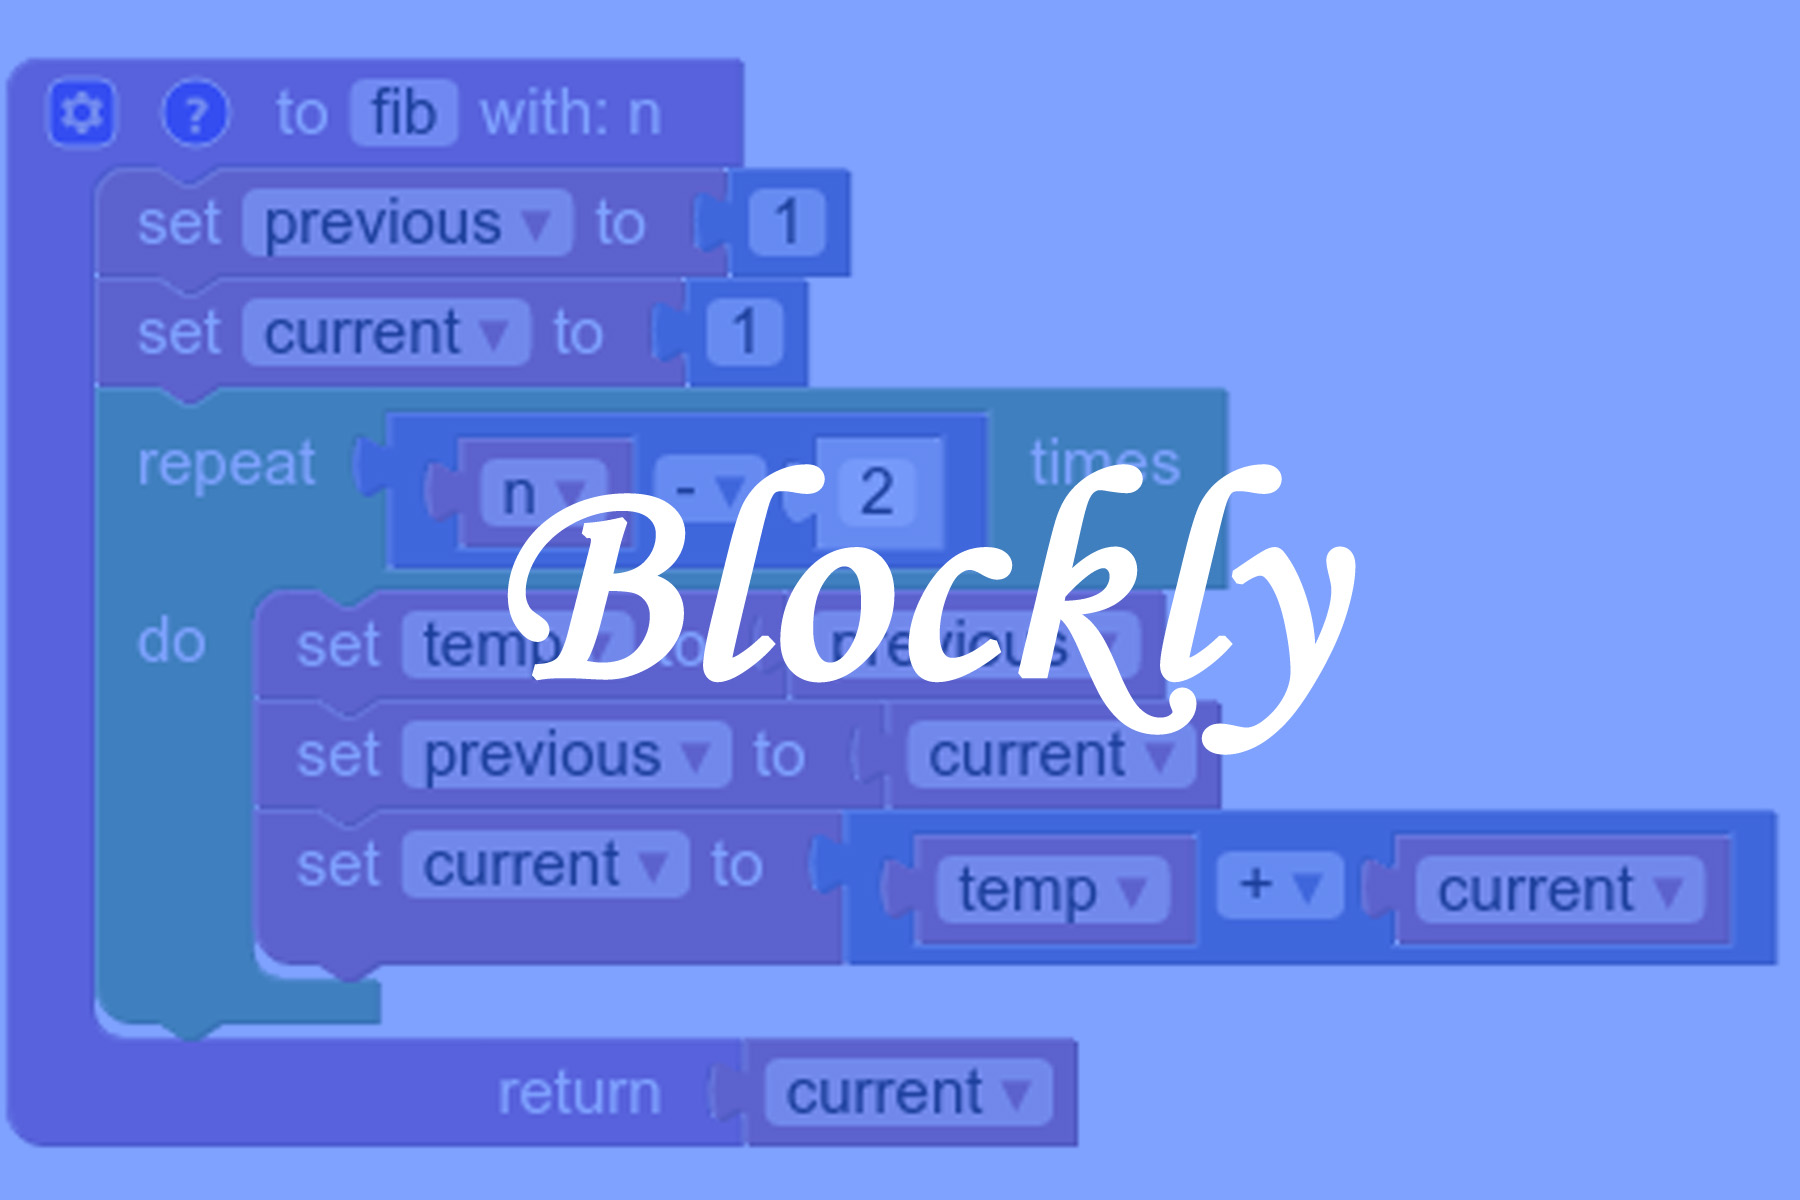
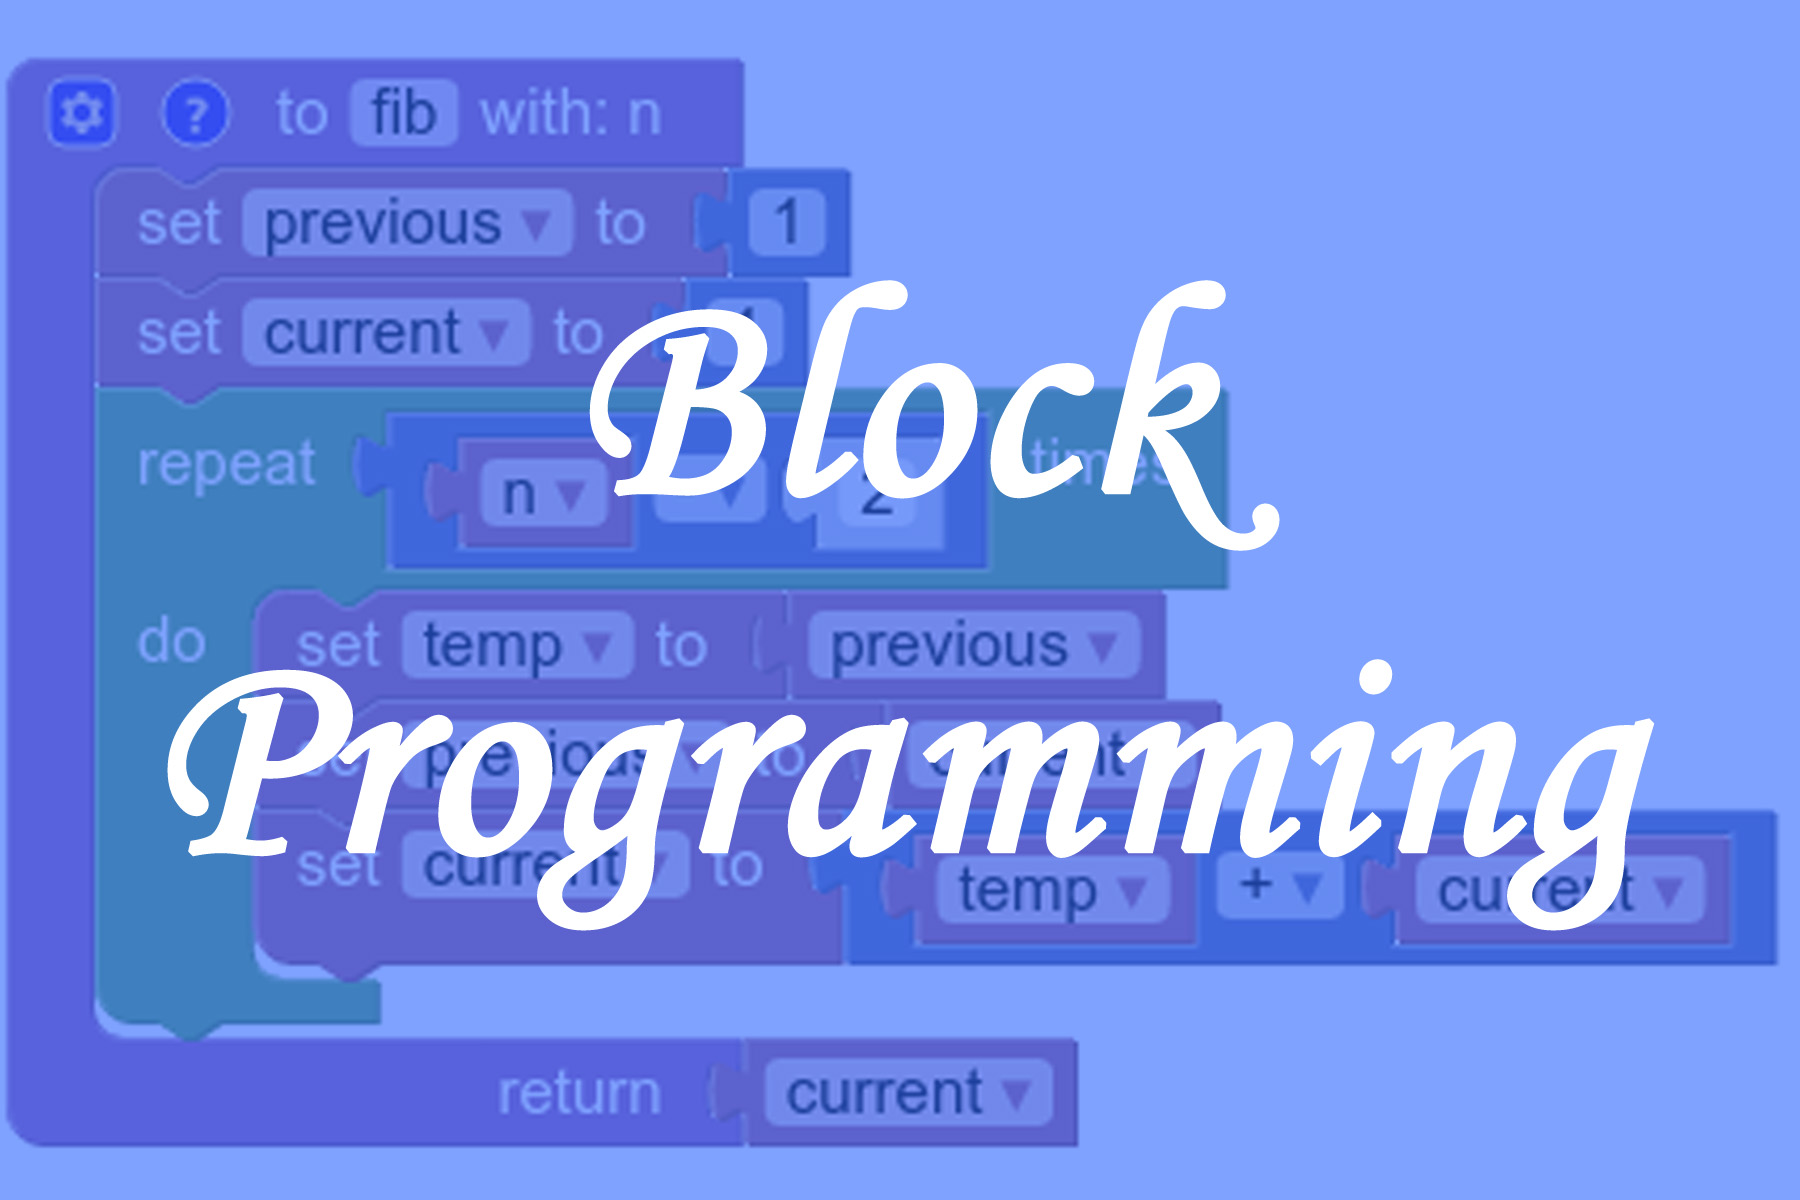
public images

Changed region(s): [[0.0933, 0.2158, 0.9333, 0.8017]]

diff --git a/_includes/header.html b/_includes/header.html
@@ -17,18 +17,15 @@
       </div>
         
       <div class="gallery dropdown">
-          <!--a href="/stem/technology"-->
           <img src="/images/stem/Tech.png" alt="T" width="40" height="40">
           <div class="dropdown-content">
             <a href="/stem/technology">Introduction</a>
             <a href="/technology/logic">Logic Puzzles</a>
             <a href="/technology/blockprogram">Block Programming</a>
           </div>
-          <!--/a-->
       </div>
       
       <div class="gallery dropdown">
-          <!--a href="/stem/engineering"-->
             <img src="/images/stem/Engg.png" alt="E" width="40" height="40">
             <div class="dropdown-content">
               <a href="/stem/engineering">Introduction</a>
@@ -36,7 +33,6 @@
               <a href="/engineering/robotics">Robotics</a>
               <a href="/engineering/robocompetitions">Robotics Competitions</a>
             </div>
-          <!--/a-->
       </div>
       
       <div class="gallery">

diff --git a/stem/defaultstyle.css b/stem/defaultstyle.css
@@ -53,7 +53,7 @@ header {
   display: none;
   position: absolute;
   background-color: #dbe2f8; /* #f1f1f1 */;
-  margin-top: 7px;
+  margin-top: 10px;
   font-size:12px;
   min-width: 140px;
   border-radius: 5px;

diff --git a/README.md b/README.md
@@ -2,48 +2,37 @@
 URL: https://stemscholars.github.io/
 
 # Items
-Launch date: Sept 27
-## By Wed Sept 23
-* **Intro Video**
+## Intro Video
   * Rayna: Script. Rayna and Rachel: Film
   * Motivation: "Define what STEM means for you". "Why do I do STEM" and "What will you learn from this"
   * "Why do I do STEM" -- What interests you to "stay engaged" ? What's your incentive ?
-  * **Need biodata and pic from Ms. Gina**
 * Arduino (Singhals)
-## By Sunday Sept 27
-* Video Tutorial for K-3:
+## Video Tutorial for K-3
   * Rayna: Script
-  * Material: Science(5 activities: Prabhdeep), Tech(coding: Rachel), Engg(robotics: Rayna), Math(logic: Leo and Navika)
-* Robotics page filled
-## By Wed Sept 30
-* Film the videos and release
+  * Material: Science(5 activities: Prabhdeep), Tech(coding: Rachel), Engg(robotics: Rayna)
 ## Later
 * Other videos
   * What strategies work for you? What doesn't work? Talk about perseverance and sustained practice.
-  * Why competitions ? (They give a framework to learn, a goal to work towards)
 * **How do we do diversity and inclusion ? How do we attract girls and people from all ethnicities and socio-economic backgrounds?**
   * Maybe make 1 person in-charge of it ? Add pictures, creative stuff, memes.
   * Socio-economic -- persuade and demystify. Videos ? Outreach ?
 * Divide up the resources into "audience" of potential Students -- Beginning, Emerging and Taking Off!
-* Let's not forget about possibility of embedding a google form for whoever to enter their name - and email. Perhaps, can be optional to include school and grade.
+* Add a google form for whoever to enter their name - and email. Perhaps, can be optional to include school and grade.
 ## Page Ideas
-* Intro: Motivation. Later: Pics on margin for logic puzzles, robots, chess
-* Science: Science Fair (Arshia), Science Bowl (Yash)
+* Science: 
+  * Science Fair (Arshia): https://acsef.zfairs.com/?f=25e2f89f-2696-4168-9805-abbfe4675d33 
+  * Science Bowl (Yash)
 * Technology: Logic page, Coding Tutorials (code.org), Coding competitions, Web page design, making apps, animation
 * Engineering: 
   * Circuits, Arduino
   * Robotics : Competitions, Tutorials
 * Arts: Logan has a lot of ARTs - both visual and performing arts; including forensics!
-* Math: Logic page, Competitions, Other (Neil)
+* Math: Logic page, Competitions, Other (Neil), Intro to finance: 
+  * Money Smart curriculum for kids: https://www.fdic.gov/consumers/consumer/moneysmart/young.html
+  * bayfi2020@gmail.com https://bayfi2020.wixsite.com/home (10 weeks, 6-9 grades)
 * Logic: Sudoku, Chess
 * Major/Careers: How to pick
 * About
 
 Maybe check the video model at: https://www.nextvista.org/
 
-# Ms. Gina's District Wide Outreach
-Engagement, Enrichment and Leadership for ages 0 to "Infinity and Beyond!. Connected to:
-* NHUSD Personal Learning Academy
-* Union City Family Center: 
-* Family Engagement, Enrichment and Leadership Skills (FEELS)
-* Coaching, Advising, Regenerative Encouragement Systems (CARES)

diff --git a/stem/publicimages.md b/stem/publicimages.md
@@ -1,0 +1,16 @@
+# Public Domain Images Used Here without Arribution
+
+## Rules
+* CreativeCommon https://creativecommons.org/faq/ : Every Creative Commons license requires that you provide attribution to the original creator as well as link to the original work. Example: https://creativecommons.org/use-remix/attribution/
+* How to set in your photo: https://wiki.creativecommons.org/wiki/HOWTO_Publish#Adding_a_license_to_your_photo_pages 
+
+## Public Domain Images on our site:
+* NavBar Home: https://www.needpix.com/photo/download/522328/home-start-top-icon-free-vector-graphics-free-pictures-free-photos-free-images-royalty-free 
+* NavBar: About Us: https://pixy.org/4176572/ Colors: (RGB) = (0, 150, 175) = 0096af
+* Under Construction: https://www.needpix.com/photo/538093/maintenance-under-construction-web-site-web-page-repairs-internet-building-logo-icon 
+* Building Sets: https://pixabay.com/illustrations/lego-lego-background-bricks-truck-3625194/  https://pixabay.com/service/license/ -- free for commercial and noncommercial use, Attribution is not required. 
+* Electronics: https://pixy.org/102060/ https://creativecommons.org/choose/zero/ 
+* Robot: https://pixabay.com/photos/r2d2-robot-starwars-film-android-5142912/ 
+https://pixabay.com/service/license/ -- free for commercial and noncommercial use, Attribution is not required. 
+* Logic Puzzles https://pxhere.com/en/photo/1444651 Public Domain
+* Block Programming https://commons.wikimedia.org/wiki/File:Fibonacci_number_in_Blocky.png https://creativecommons.org/publicdomain/zero/1.0/deed.en Public Domain
